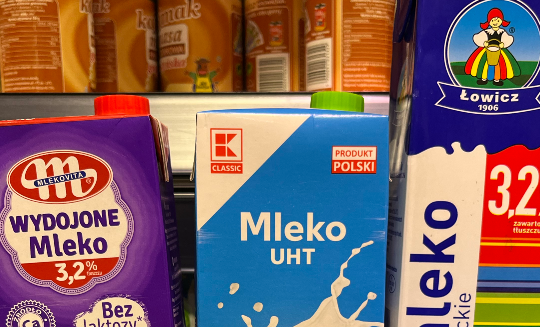
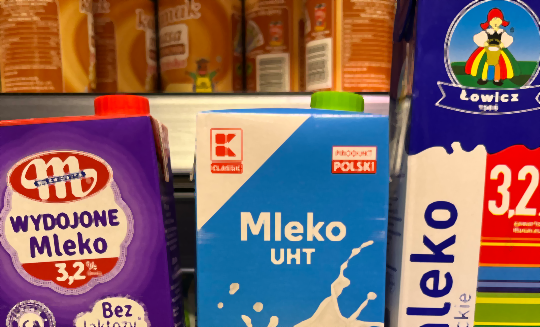
median works done

diff --git a/kauflander/filter.py b/kauflander/filter.py
@@ -1,0 +1,46 @@
+import numpy as np
+
+
+def filter_gaussian(image: np.ndarray) -> np.ndarray:
+    """filter_gaussian.
+
+    :param image:
+    :type image: np.ndarray
+    :rtype: np.ndarray
+    """
+    gaussian_matrix = np.array([[1, 2, 1], [2, 4, 2], [1, 2, 1]])
+    filtered = image.astype(np.uint)
+    rows, cols, _ = image.shape
+    for x in range(1, rows - 1):
+        for y in range(1, cols - 1):
+            fragment = image[x - 1 : x + 2, y - 1 : y + 2]
+            filtered[x, y] = np.array(
+                [
+                    np.multiply(fragment[..., 0], gaussian_matrix).sum(),
+                    np.multiply(fragment[..., 1], gaussian_matrix).sum(),
+                    np.multiply(fragment[..., 2], gaussian_matrix).sum(),
+                ]
+            )
+    return (filtered / gaussian_matrix.sum()).astype(image.dtype)
+
+
+def filter_median(image: np.ndarray) -> np.ndarray:
+    """filter_median.
+
+    :param image:
+    :type image: np.ndarray
+    :rtype: np.ndarray
+    """
+    filtered = image.copy()
+    rows, cols, _ = image.shape
+    for x in range(1, rows - 1):
+        for y in range(1, cols - 1):
+            fragment = np.reshape(
+                image[x - 1 : x + 2, y - 1 : y + 2].astype(image.dtype), (9, 3)
+            )
+
+            for i in range(3):
+                fragment[..., i].sort()
+
+            filtered[x, y] = fragment[5]
+    return filtered.astype(image.dtype)

diff --git a/kauflander/__main__.py b/kauflander/__main__.py
@@ -3,17 +3,43 @@ import cv2
 import numpy as np
 from .color_conversion import convert_bgr_to_csv
 from .reshape import reshape
+from .filter import filter_gaussian, filter_median
 
 
 if __name__ == "__main__":
     parser = argparse.ArgumentParser()
     parser.add_argument("INPUT", metavar="FILE", help="input file")
     parser.add_argument("OUTPUT", metavar="FILE", help="output file")
+    parser.add_argument(
+        "-s",
+        "--size-factor",
+        action="store",
+        type=float,
+        default=0.5,
+        help="size factor, multiplicator",
+    )
+    parser.add_argument(
+        "-g",
+        "--filter-gaussian",
+        action="store_true",
+        help="filter with gaussian filter",
+    )
+    parser.add_argument(
+        "-m", "--filter-median", action="store_true", help="filter with median filter"
+    )
 
     args = parser.parse_args()
 
     image = cv2.imread(args.INPUT)
-    converted = convert_bgr_to_csv(image)
+
+    reshaped = reshape(image, args.size_factor)
+
+    if args.filter_gaussian:
+        reshaped = filter_gaussian(reshaped)
+
+    if args.filter_median:
+        reshaped = filter_median(reshaped)
+
+    converted = convert_bgr_to_csv(reshaped)
     converted = cv2.cvtColor(converted, cv2.COLOR_HSV2BGR)
-    reshaped = reshape(image, 0.5)
     cv2.imwrite(args.OUTPUT, reshaped)

diff --git a/kauflander/reshape.py b/kauflander/reshape.py
@@ -16,7 +16,7 @@ def reshape(image, scale_factor: float) -> np.ndarray:
     :rtype: np.ndarray
     """
     new_shape = np.round(np.array(image.shape[:2]) * scale_factor).astype(np.uint)
-    reshaped = np.zeros((*new_shape, 3))
+    reshaped = np.zeros((*new_shape, 3), dtype=image.dtype)
 
     for x in range(new_shape[0]):
         for y in range(new_shape[1]):
